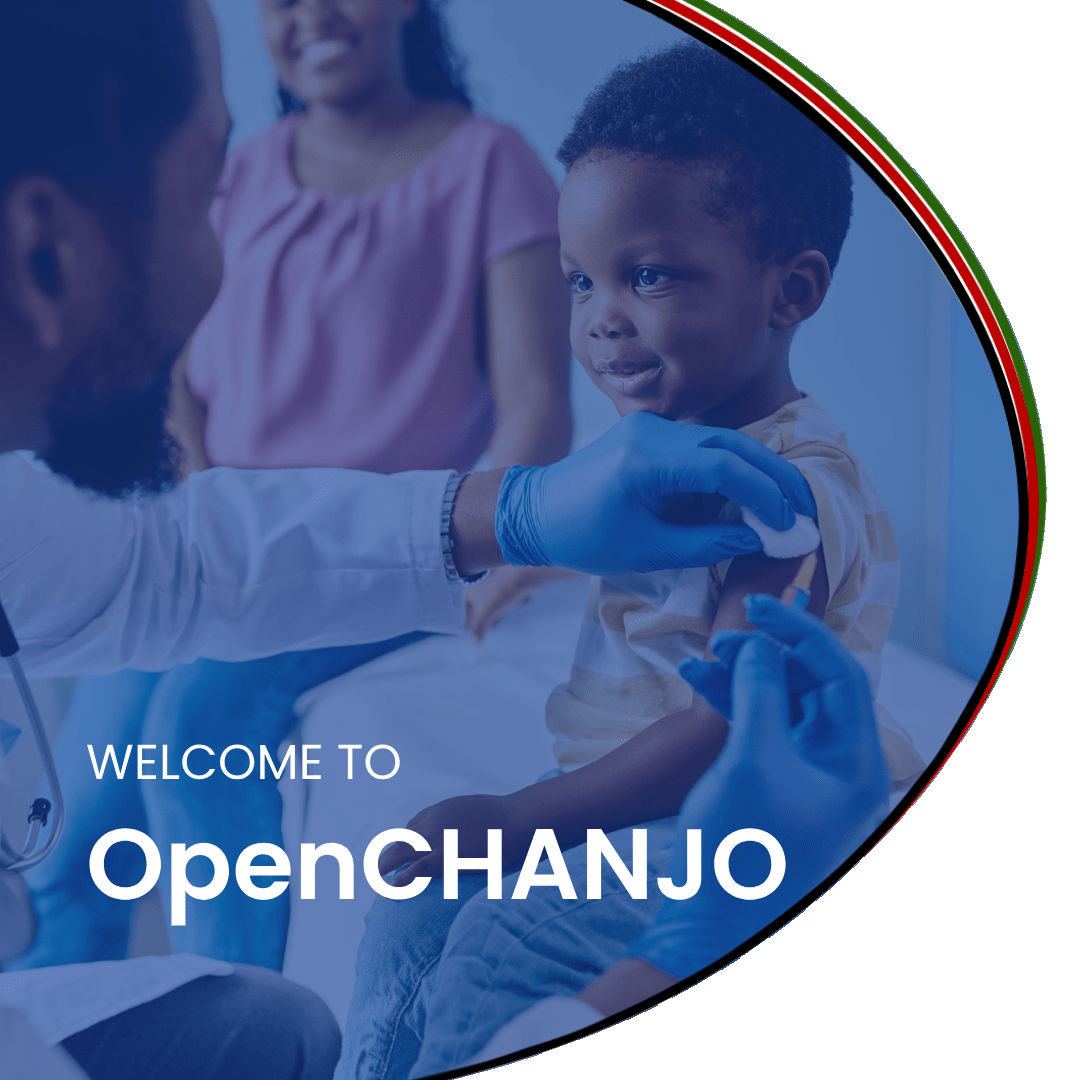
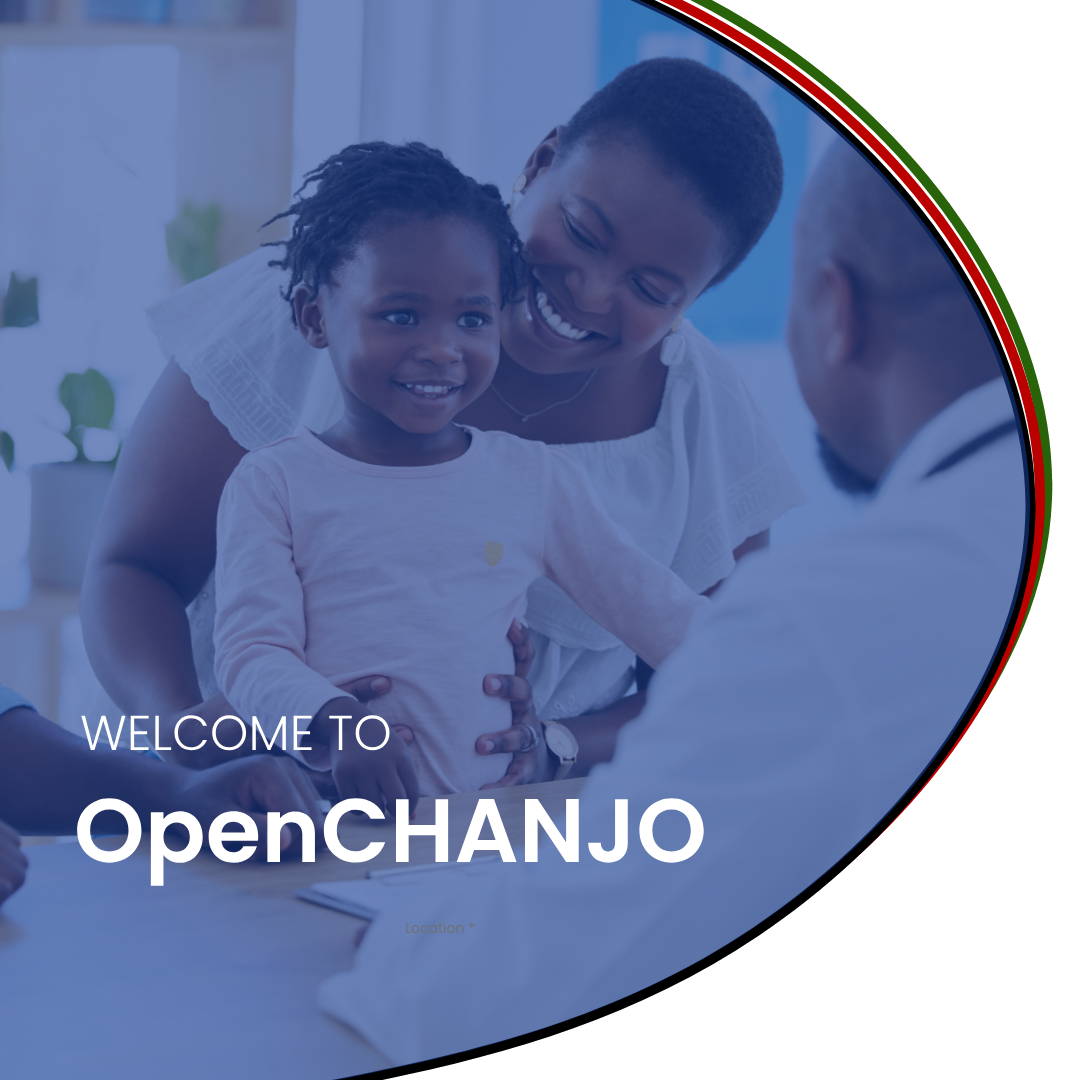
Fix login image and patient update

diff --git a/src/hooks/usePatient.js b/src/hooks/usePatient.js
@@ -29,34 +29,6 @@ export default function usePatient() {
           system: 'http://hl7.org/fhir/administrative-identifier',
           value: data.identificationNumber,
         },
-        {
-          type: {
-            coding: [
-              {
-                system: 'system-creation',
-                code: 'system_creation',
-                display: 'System Creation',
-              },
-            ],
-            text: moment().format('YYYY-MM-DD HH:mm:ss'),
-          },
-          system: 'system-creation',
-          value: moment().format('YYYY-MM-DD HH:mm:ss'),
-        },
-        {
-          type: {
-            coding: [
-              {
-                system: 'http://hl7.org/fhir/administrative-identifier',
-                code: 'system_generated',
-                display: 'SYSTEM_GENERATED',
-              },
-            ],
-            text: 'SYSTEM_GENERATED',
-          },
-          system: 'identification',
-          value: generateUniqueCode(8),
-        },
       ],
       active: true,
       name: [
@@ -152,12 +124,55 @@ export default function usePatient() {
 
     if (data.clientID) {
       patientResource.id = data.clientID
+      const patient = await getPatient(data.clientID)
+
+      patientResource.identifier = [
+        ...patient.identifier?.filter((id) => {
+          const type = id.type.coding[0].display
+          return !patientResource.identifier.some(
+            (identifier) => identifier.type.coding[0].display === type
+          )
+        }),
+        ...patientResource.identifier,
+      ]
 
       return await put(
         `${fhirEndpoint}/Patient/${data.clientID}`,
         patientResource
       )
     }
+
+    patientResource.identifier = [
+      ...patientResource.identifier,
+      {
+        type: {
+          coding: [
+            {
+              system: 'system-creation',
+              code: 'system_creation',
+              display: 'System Creation',
+            },
+          ],
+          text: moment().format('YYYY-MM-DD HH:mm:ss'),
+        },
+        system: 'system-creation',
+        value: moment().format('YYYY-MM-DD HH:mm:ss'),
+      },
+      {
+        type: {
+          coding: [
+            {
+              system: 'http://hl7.org/fhir/administrative-identifier',
+              code: 'system_generated',
+              display: 'SYSTEM_GENERATED',
+            },
+          ],
+          text: 'SYSTEM_GENERATED',
+        },
+        system: 'identification',
+        value: generateUniqueCode(8),
+      },
+    ]
 
     return await post(`${fhirEndpoint}/Patient`, patientResource)
   }

diff --git a/src/components/Sidenav.jsx b/src/components/Sidenav.jsx
@@ -142,6 +142,16 @@ export default function Sidenav() {
         roles: ['ALL'],
         children: [
           {
+            name: 'Dashboard',
+            href: '/dashboard',
+            icon: <BarChartOutlined />,
+            roles: [
+              'ADMINISTRATOR',
+              'NATIONAL_SYSTEM_ADMINISTRATOR',
+              'COUNTY_SYSTEM_ADMINISTRATOR',
+            ],
+          },
+          {
             name: 'MOH 710',
             href: '/reports/moh-710',
             icon: <BarChartOutlined />,
@@ -152,16 +162,6 @@ export default function Sidenav() {
             href: '/reports/moh-525',
             icon: <DotChartOutlined />,
             roles: ['ALL'],
-          },
-          {
-            name: 'Dashboard',
-            href: '/dashboard',
-            icon: <BarChartOutlined />,
-            roles: [
-              'ADMINISTRATOR',
-              'NATIONAL_SYSTEM_ADMINISTRATOR',
-              'COUNTY_SYSTEM_ADMINISTRATOR',
-            ],
           },
         ],
       },
@@ -311,13 +311,13 @@ export default function Sidenav() {
             roles: ['SUB_COUNTY_STORE_MANAGER'],
           },
           {
-            name: 'Received from another facility',
+            name: 'Receive from another facility',
             href: '/stock-management/positive-adjustment',
             icon: <PlusCircleOutlined />,
             roles: ['FACILITY_STORE_MANAGER', 'FACILITY_SYSTEM_ADMINISTRATOR'],
           },
           {
-            name: 'Shared with another facility',
+            name: 'Share with another facility',
             href: '/stock-management/negative-adjustment',
             icon: <MinusCircleOutlined />,
             roles: ['FACILITY_STORE_MANAGER', 'FACILITY_SYSTEM_ADMINISTRATOR'],

diff --git a/src/components/StockManagement/OrderDetails.jsx b/src/components/StockManagement/OrderDetails.jsx
@@ -90,13 +90,24 @@ export default function OrderDetails() {
       }
     })
 
+    const isCanceled = order?.status === 'cancelled'
+    const cancelDate = isCanceled
+      ? moment(order?.meta?.lastUpdated).format('DD-MM-YYYY')
+      : '-'
+    const preferredPickupDate = order?.extension?.find((item) =>
+      item.url?.includes('preferredPickupDate')
+    )?.valueDateTime
+
     return {
       orderNumber: order?.identifier?.[0]?.value,
       issueDate: moment(order?.occurrenceDateTime).format('DD-MM-YYYY'),
       orderingStore: order?.deliverTo?.display,
       receiveDate: moment(order?.occurrencePeriod?.start).format('DD-MM-YYYY'),
       fulfillingStore: order?.deliverFrom?.display,
-      cancelDate: order?.cancelDate,
+      cancelDate,
+      preferredPickupDate: preferredPickupDate
+      ? moment(preferredPickupDate).format('DD-MM-YYYY')
+      : '-',
       packDate: moment(order?.occurrencePeriod?.end).format('DD-MM-YYYY'),
       status: order?.status,
       orderItems,
@@ -179,6 +190,8 @@ export default function OrderDetails() {
       ],
     },
   ]
+
+  console.log(orderDetails)
 
   return (
     <Card title={orderDetails?.orderNumber || orderID} className="mt-5">

diff --git a/src/components/RegisterClient/ClientDetails.jsx b/src/components/RegisterClient/ClientDetails.jsx
@@ -131,8 +131,9 @@ export default function ClientDetails() {
 
     if (!clientID) {
       await createRecommendations(patient)
+    } else {
+      await createRecommendations(patient, 'update')
     }
-    await createRecommendations(patient, 'update')
 
     setSaving(false)
 
@@ -364,11 +365,7 @@ export default function ClientDetails() {
                   },
                 ]}
               >
-                <Input
-                  placeholder="Age"
-                  disabled={true}
-                  className="w-full"
-                />
+                <Input placeholder="Age" disabled={true} className="w-full" />
               </Form.Item>
 
               <div

diff --git a/src/components/StockManagement/ReceivedOrders.jsx b/src/components/StockManagement/ReceivedOrders.jsx
@@ -135,14 +135,15 @@ export default function ReceivedOrders() {
           >
             View
           </Link>
-
-          <Link
-            to={`/stock-management/issue-stock`}
-            state={{ order: record }}
-            className="text-green font-semibold hover:!text-green"
-          >
-            Issue Stock
-          </Link>
+          {record.status === 'active' && (
+            <Link
+              to={`/stock-management/issue-stock`}
+              state={{ order: record }}
+              className="text-green font-semibold hover:!text-green"
+            >
+              Issue Stock
+            </Link>
+          )}
         </div>
       ),
     },

diff --git a/src/components/StockManagement/helpers/stockUtils.js b/src/components/StockManagement/helpers/stockUtils.js
@@ -178,3 +178,18 @@ export const vialsToDoses = (vacine, quantity) => {
   const doses = quantity * vaccineDoses[vacine]
   return doses
 }
+
+// stock consumed last month
+export const stockConsumedLastMonth = (batches, inventoryReports) => {
+  // get consumption per vaccine
+  const consumptionPerVaccine = inventoryReports.map((report) => {
+    const vaccine = report.vaccine
+    const consumed = report.consumed
+    return { vaccine, consumed }
+  })
+
+  // get the total consumed
+  const totalConsumed = consumptionPerVaccine.reduce((acc, curr) => {
+    return acc + curr.consumed
+  }, 0)
+}

diff --git a/src/pages/ClientRecords.jsx b/src/pages/ClientRecords.jsx
@@ -117,12 +117,12 @@ export default function ClientRecords() {
   }, [clientID])
 
   useEffect(() => {
-    if (patient) {
+    if (patient && counties?.length) {
       const age = moment().diff(patient.birthDate, 'years')
       setIsOver18(age >= 18)
       setDetails(formatDetails(patient))
     }
-  }, [patient])
+  }, [patient, counties])
 
   const columns = [
     {

diff --git a/src/pages/ForgotPassword.jsx b/src/pages/ForgotPassword.jsx
@@ -40,6 +40,7 @@ export default function ForgotPassword() {
         message.success(response.response)
 
         setTimeout(() => {
+          localStorage.clear()
           navigate('/auth')
         }, 3000)
       }
